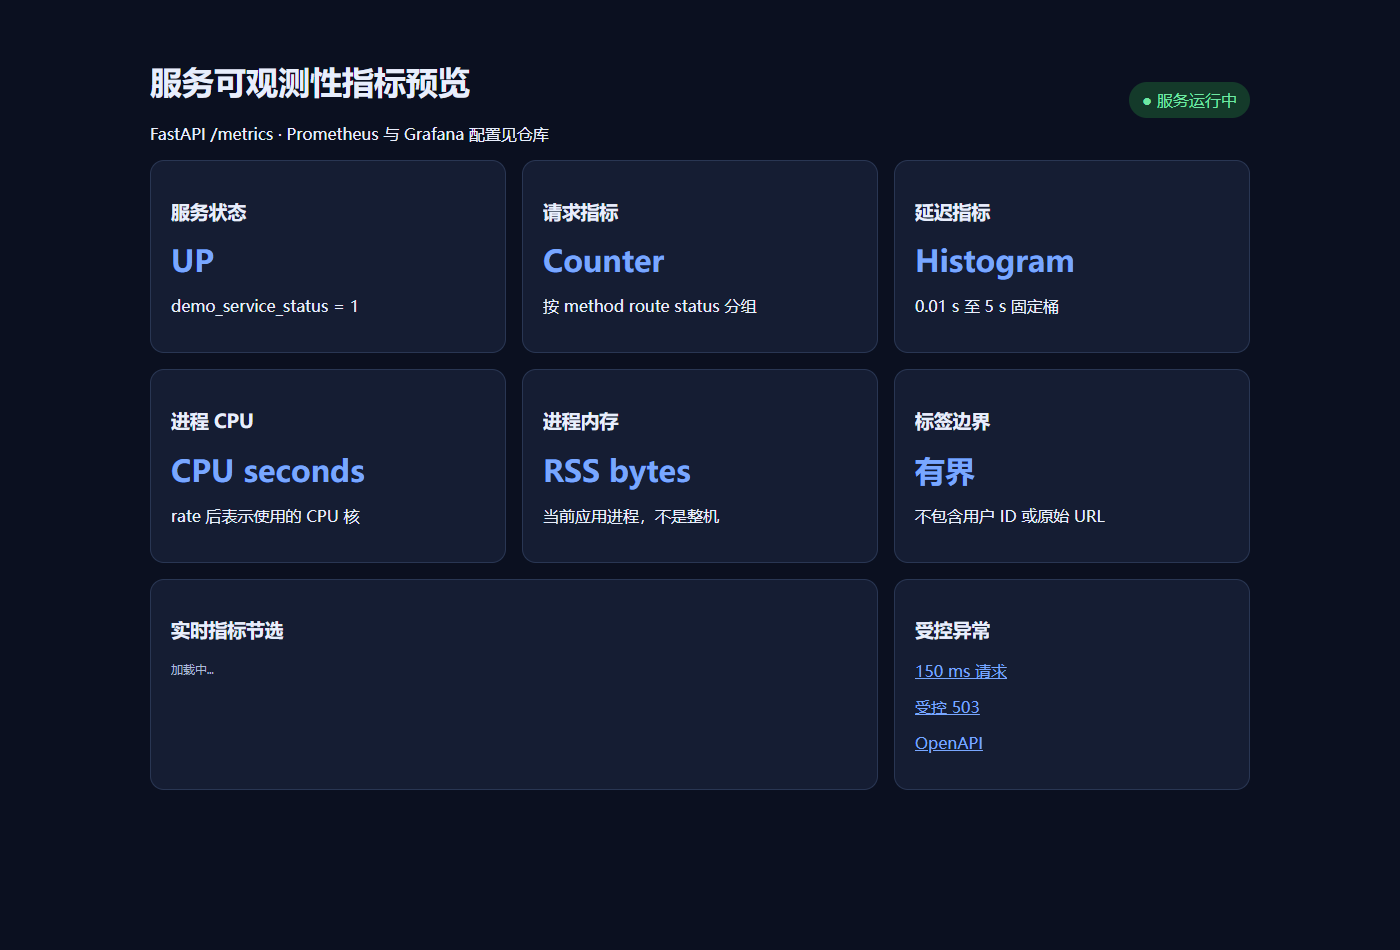
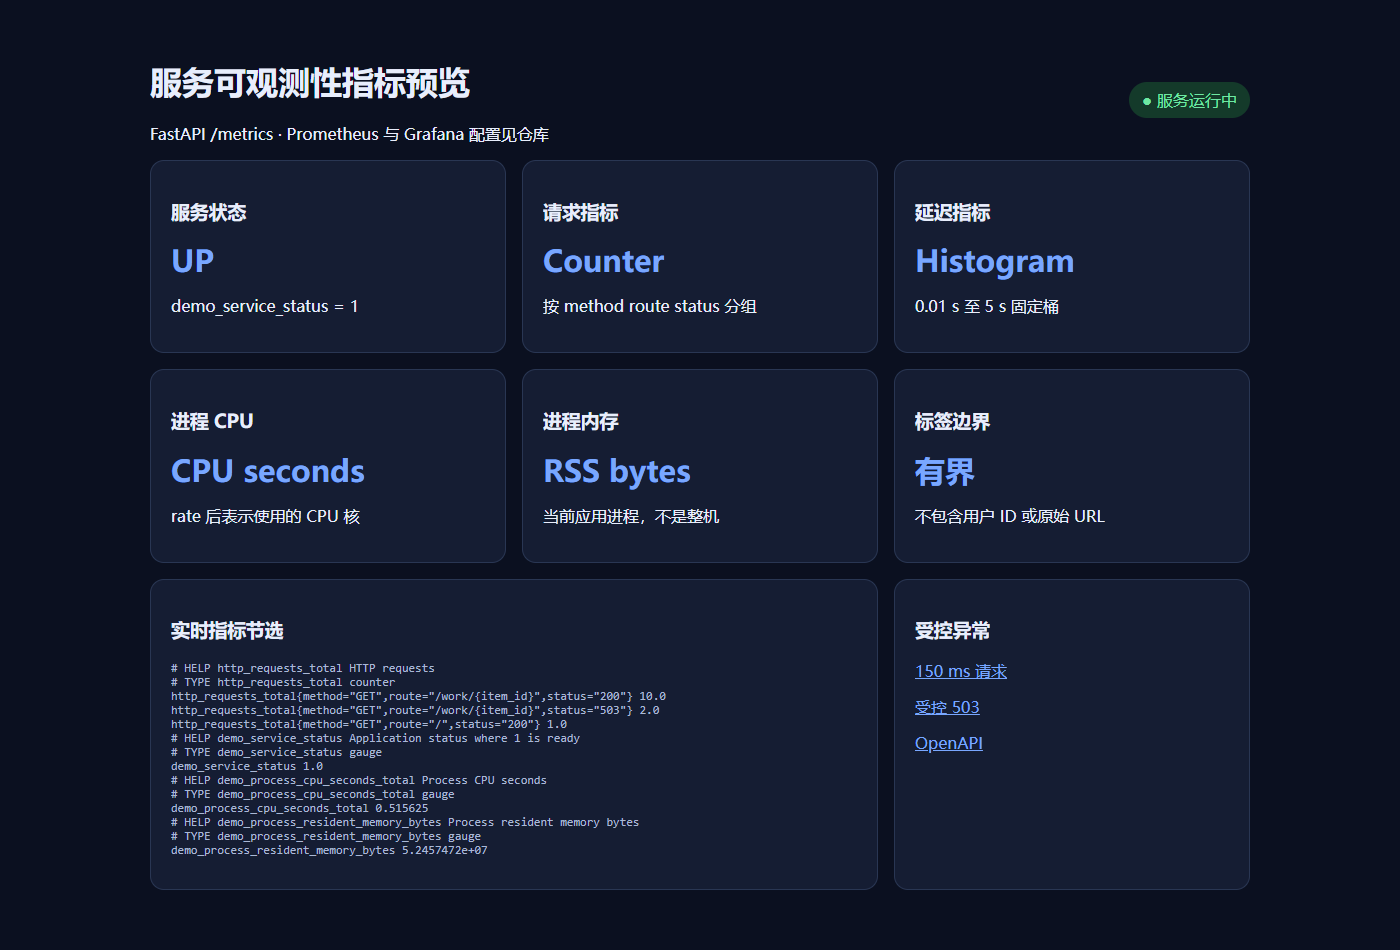
fix: render live metric samples in preview

Changed region(s): [[0.1229, 0.7021, 0.4607, 0.9158]]

diff --git a/app/main.py b/app/main.py
@@ -19,7 +19,7 @@ PROCESS_CPU = Gauge("demo_process_cpu_seconds_total", "Process CPU seconds")
 PROCESS_MEMORY = Gauge("demo_process_resident_memory_bytes", "Process resident memory bytes")
 SERVICE_UP.set(1)
 
-DASHBOARD_PREVIEW = """<!doctype html><html lang='zh-CN'><head><meta charset='utf-8'><meta name='viewport' content='width=device-width,initial-scale=1'><title>服务指标预览</title><style>
+DASHBOARD_PREVIEW = r"""<!doctype html><html lang='zh-CN'><head><meta charset='utf-8'><meta name='viewport' content='width=device-width,initial-scale=1'><title>服务指标预览</title><style>
 body{font-family:system-ui;background:#0b1020;color:#e8eefc;margin:0}.wrap{max-width:1100px;margin:auto;padding:40px}.top{display:flex;justify-content:space-between;align-items:center}.badge{background:#143a2a;color:#6ee7a2;padding:8px 13px;border-radius:20px}.grid{display:grid;grid-template-columns:repeat(3,1fr);gap:16px}.card{background:#151d33;border:1px solid #293653;border-radius:14px;padding:20px}.value{font-size:30px;font-weight:700;color:#79a7ff}.wide{grid-column:span 2}pre{white-space:pre-wrap;color:#aab8d5;font-size:12px;max-height:220px;overflow:auto}@media(max-width:750px){.grid{grid-template-columns:1fr}.wide{grid-column:auto}}</style></head><body><div class='wrap'><div class='top'><div><h1>服务可观测性指标预览</h1><p>FastAPI /metrics · Prometheus 与 Grafana 配置见仓库</p></div><span class='badge'>● 服务运行中</span></div><div class='grid'><div class='card'><h3>服务状态</h3><div class='value'>UP</div><p>demo_service_status = 1</p></div><div class='card'><h3>请求指标</h3><div class='value'>Counter</div><p>按 method route status 分组</p></div><div class='card'><h3>延迟指标</h3><div class='value'>Histogram</div><p>0.01 s 至 5 s 固定桶</p></div><div class='card'><h3>进程 CPU</h3><div class='value'>CPU seconds</div><p>rate 后表示使用的 CPU 核</p></div><div class='card'><h3>进程内存</h3><div class='value'>RSS bytes</div><p>当前应用进程，不是整机</p></div><div class='card'><h3>标签边界</h3><div class='value'>有界</div><p>不包含用户 ID 或原始 URL</p></div><div class='card wide'><h3>实时指标节选</h3><pre id='raw'>加载中…</pre></div><div class='card'><h3>受控异常</h3><p><a style='color:#79a7ff' href='/work/1?delay_ms=150'>150 ms 请求</a></p><p><a style='color:#79a7ff' href='/work/1?fail=true'>受控 503</a></p><p><a style='color:#79a7ff' href='/docs'>OpenAPI</a></p></div></div></div><script>fetch('/metrics').then(r=>r.text()).then(t=>{document.querySelector('#raw').textContent=t.split('\n').filter(x=>x.includes('demo_')||x.includes('http_requests_total')).slice(0,24).join('\n')})</script></body></html>"""
 
 
